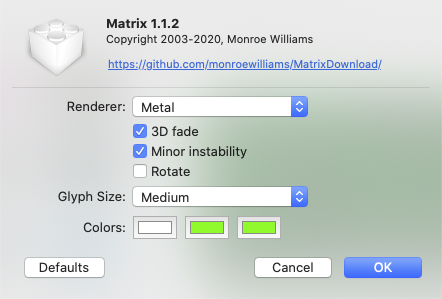
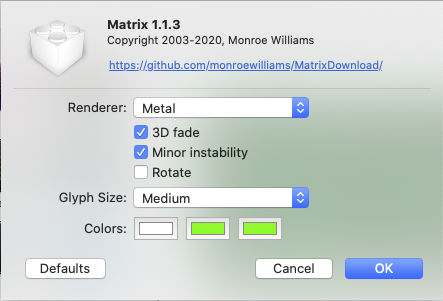
Updates to readme and prefs screenshot for 1.1.3

diff --git a/README.md b/README.md
@@ -16,6 +16,9 @@ The "Renderer" popup switches betewen using OpenGL and Metal for rendering. The 
 
 Release notes:
 
+Version 1.1.3
+- now built for both Intel and Apple Silicon
+
 Version 1.1.2
 - fixed zoom running backwards in OpenGL renderer
 - changed some of the internals of how preferences are stored
